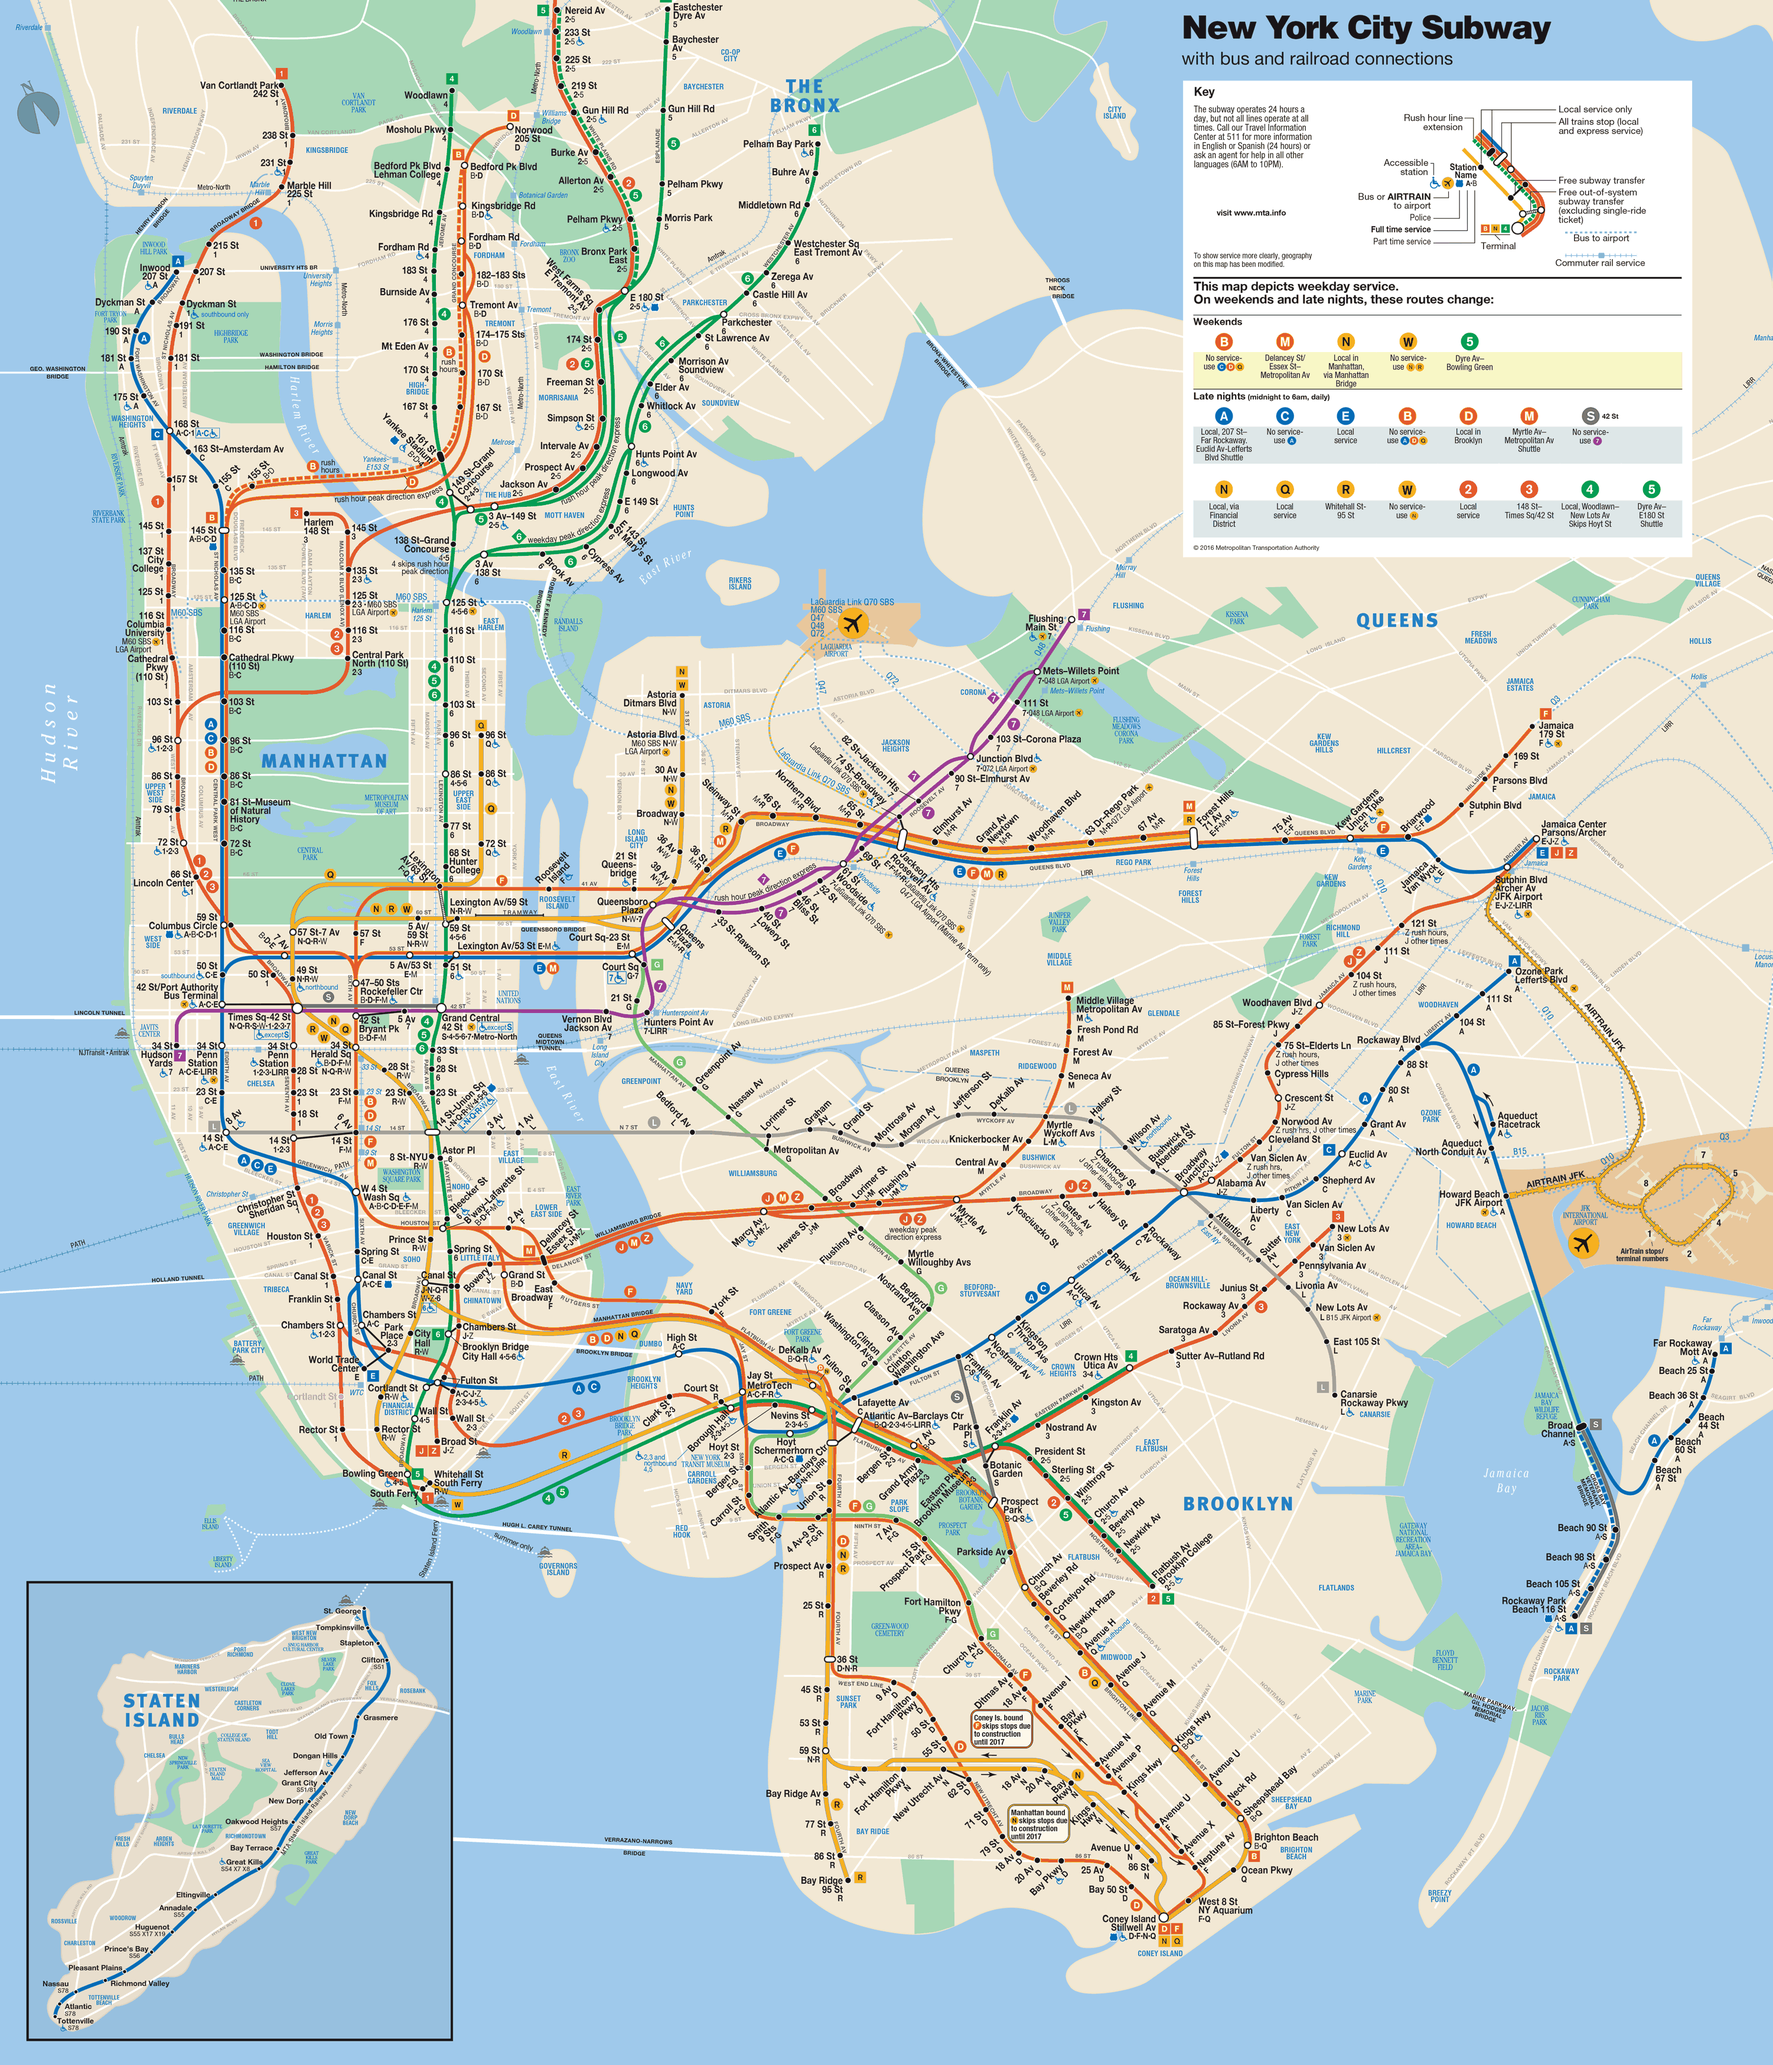
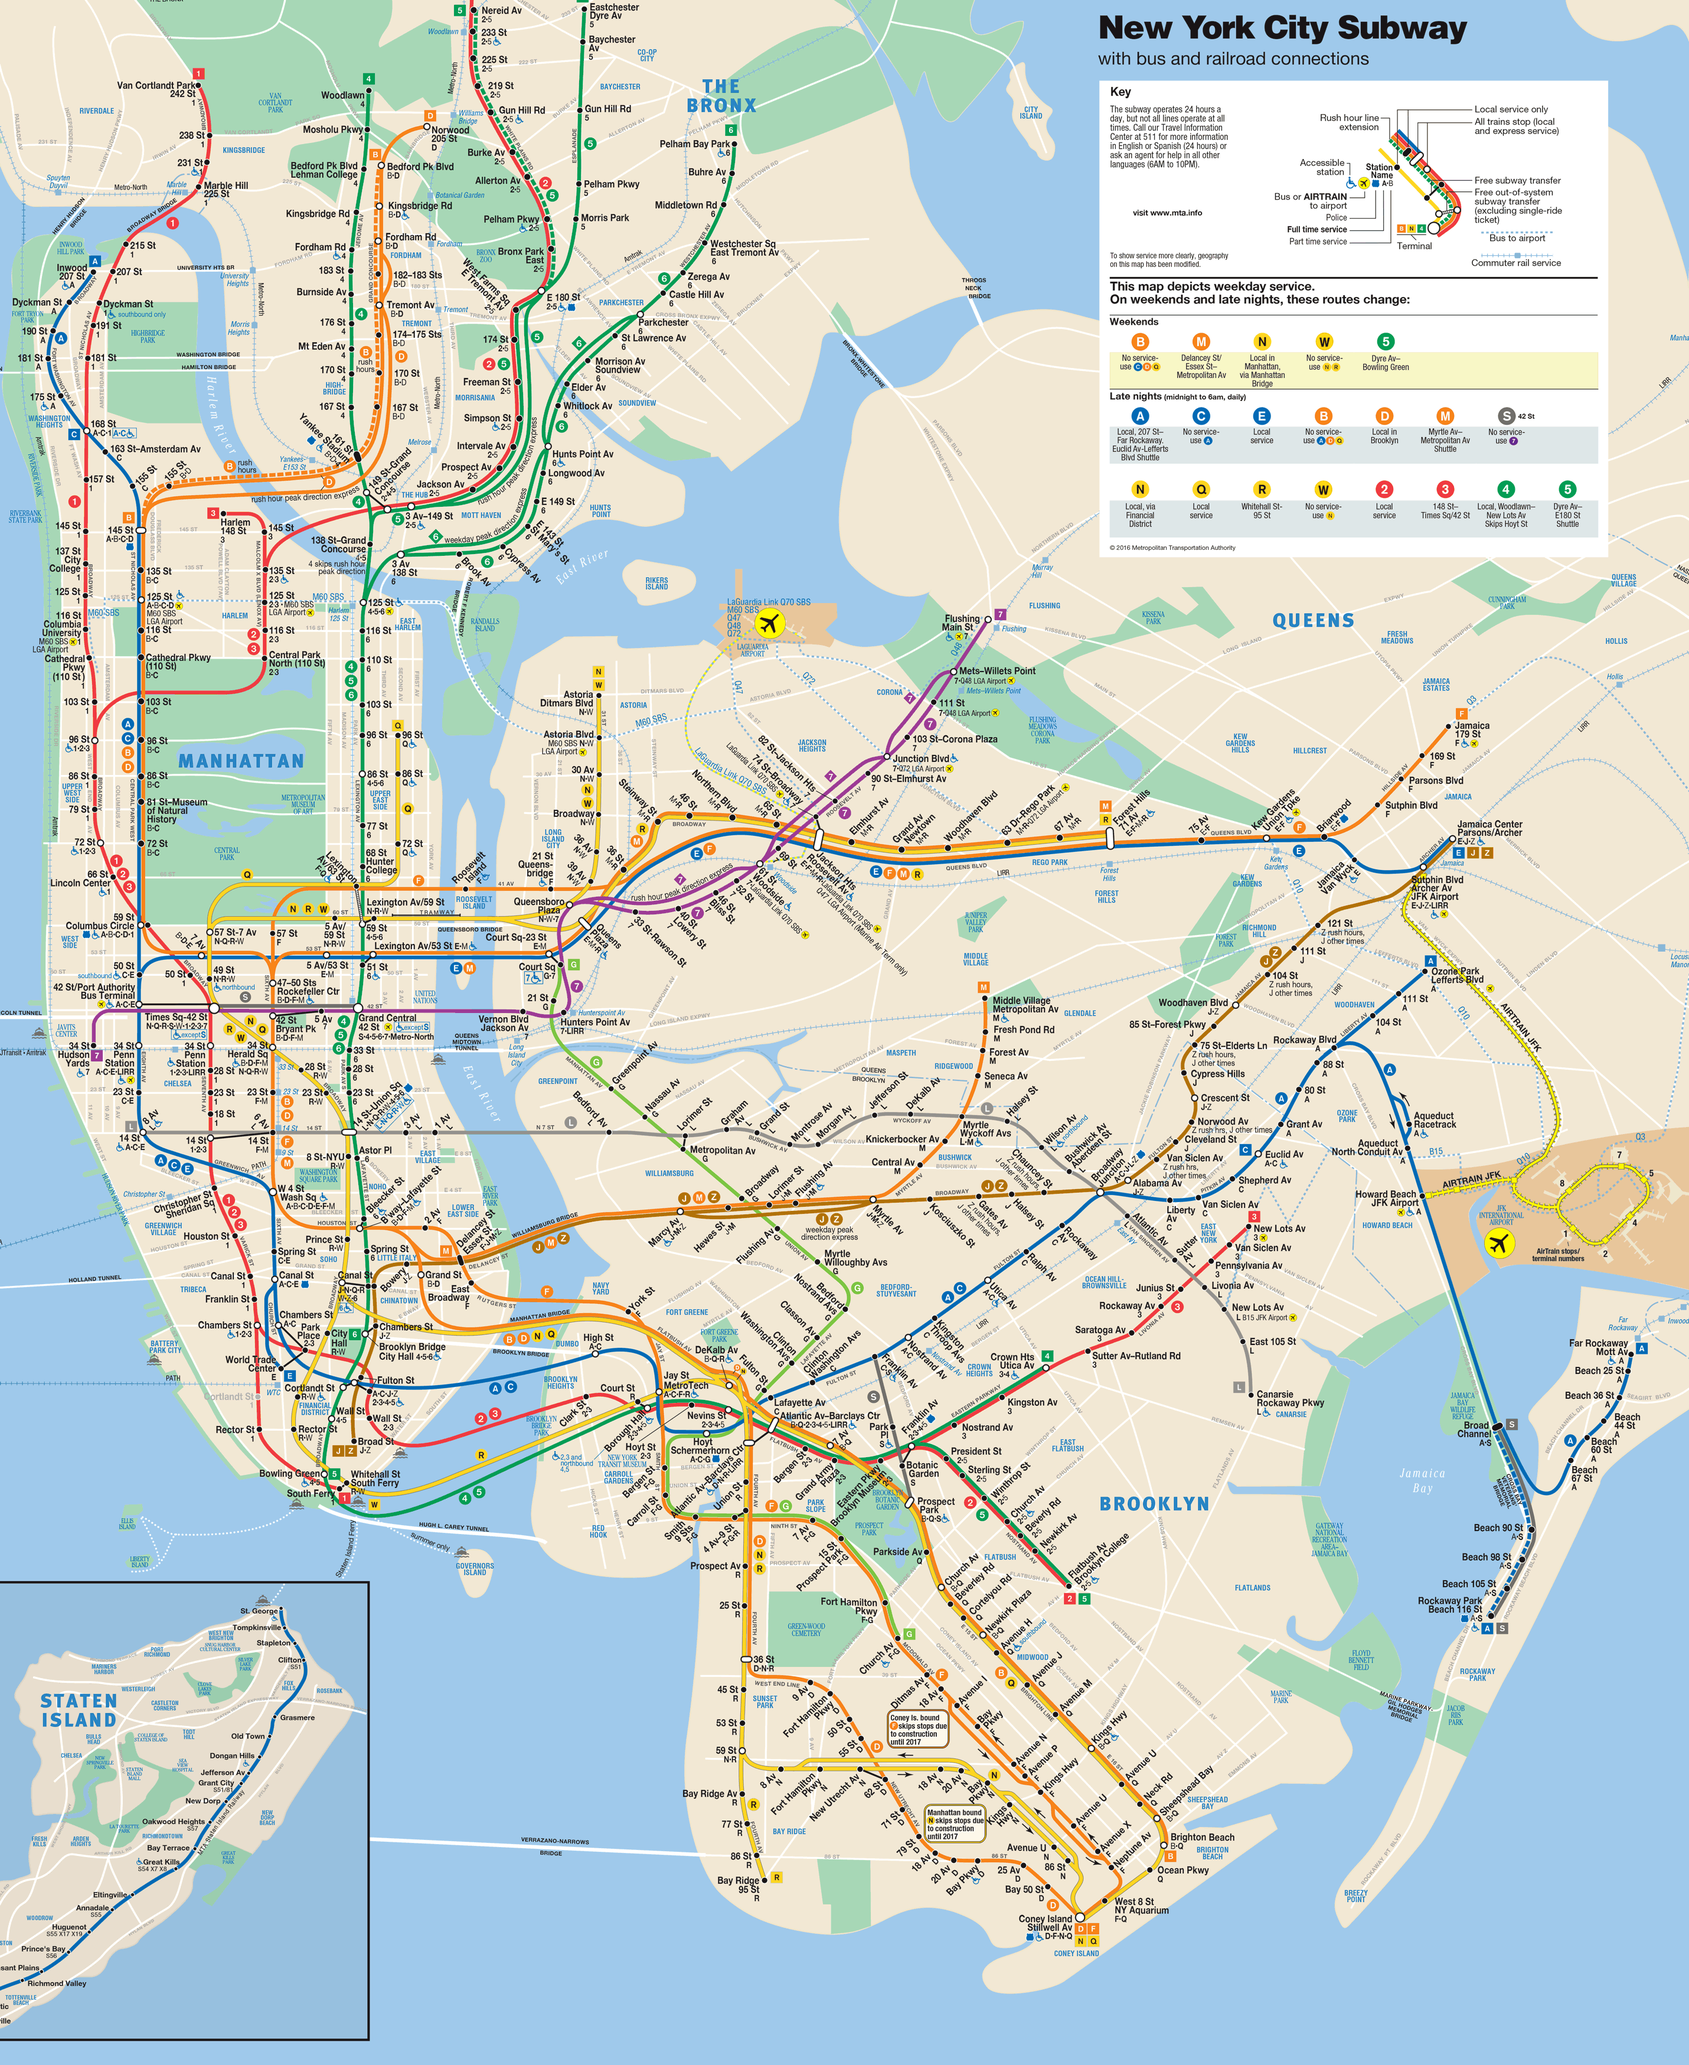
WIP

diff --git a/subway.html b/subway.html
@@ -185,8 +185,8 @@
 
     .mapimg {
 
-      width: calc(3002px / 2);
-      height: calc(3630px / 2);
+      width: calc(2861px / 2);
+      height: calc(3496px / 2);
       background: url(media/subwaymap.png);
       background-repeat: no-repeat;
       background-position: top left;
